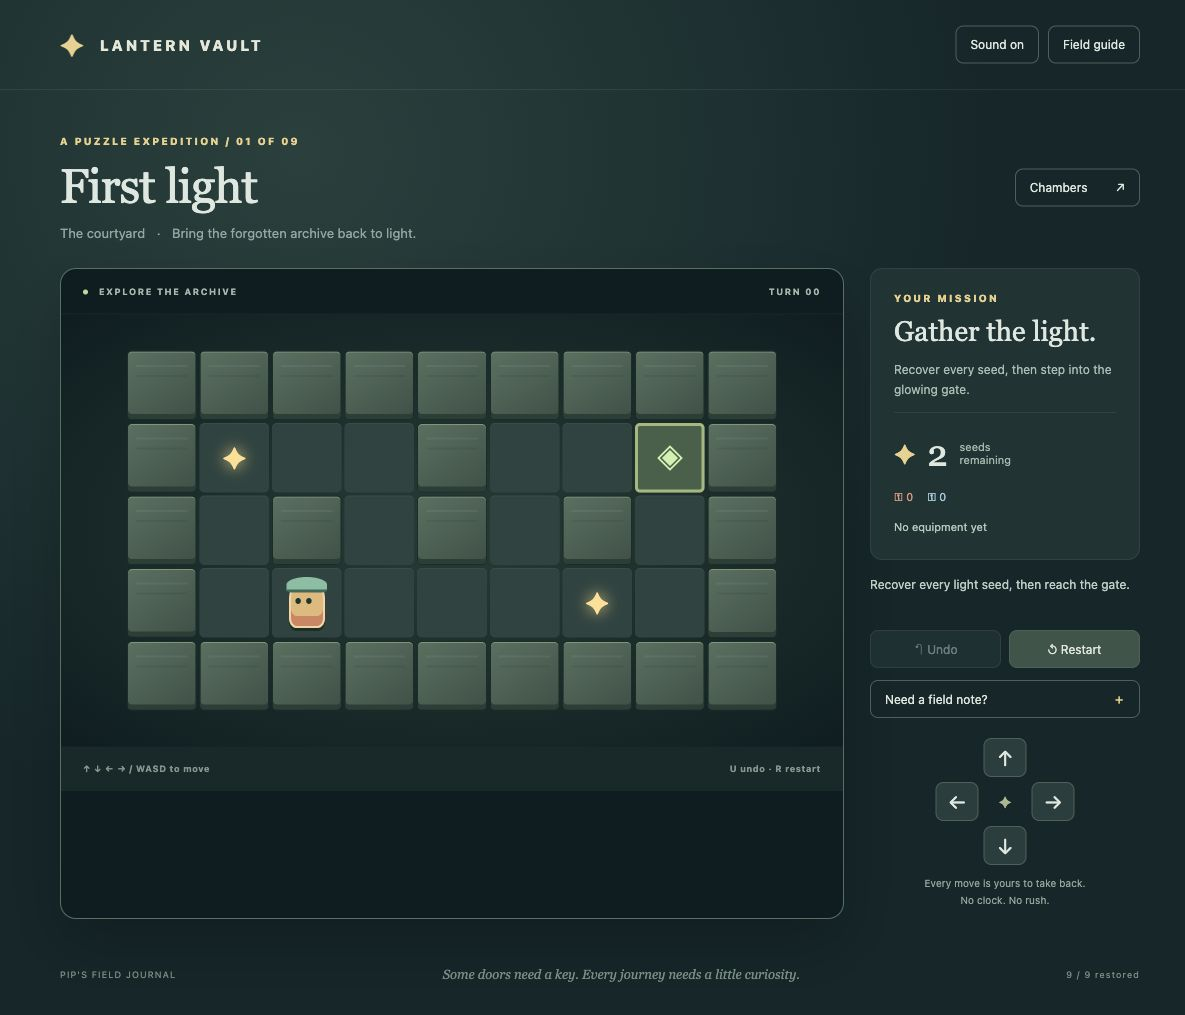
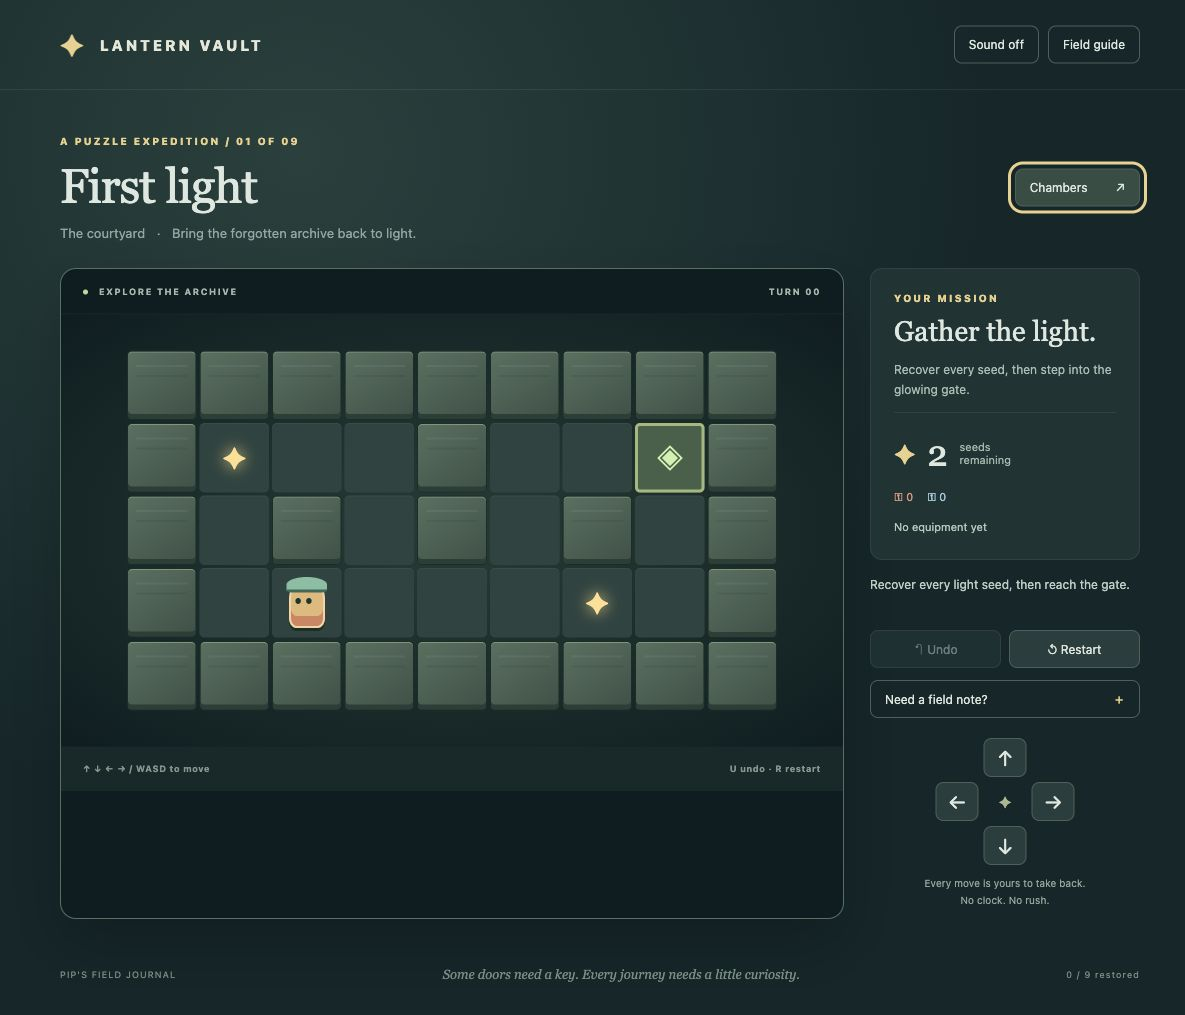
docs: record clean browser handoff and detached session server

Changed region(s): [[0.843, 0.1527, 0.9679, 0.2138], [0.8118, 0.0305, 0.8743, 0.0611]]

diff --git a/docs/VERIFICATION.md b/docs/VERIFICATION.md
@@ -8,7 +8,7 @@ Strict typecheck and production build pass. npm audit reports zero vulnerabiliti
 ## Mac Chrome visible play
 Played every stage using normal controls: stage 1 adjacent-tile click + arrow keys; stages 2–5 arrow keys; stage 6 visible D-pad buttons; stages 7–9 arrow keys. Each visibly reported “Chamber restored”; final stage showed “Expedition complete”. Original routes stored in src/solutions.json. Checked unprotected fire death in stage 4, U recovery, restart and successful protected crossing.
 
-Reload showed completed stage 1 score and stage 2 unlocked while stage 3 remained locked; final reload preserved all nine unlocks. Mute persisted on reload. While Chambers dialog open, Right left player/turn unchanged. Escape restored Chambers button focus. D-pad Enter retained “Move right” focus after moving. Native buttons also support Tab/Enter navigation.
+Reload showed completed stage 1 score and stage 2 unlocked while stage 3 remained locked; final reload preserved all nine unlocks. Mute persisted on reload. While Chambers dialog open, Right left player/turn unchanged. Escape restored Chambers button focus. D-pad Enter retained “Move right” focus after moving. Native buttons also support Tab/Enter navigation. A 600ms held Right produced one move; repeated keyboard events are ignored. Field guide opened and closed correctly. Reset expedition progress returned Pip to stage 1 with no undo history and stage 2 locked.
 
 390×844 viewport: visible D-pad activation moved Pip; document clientWidth and scrollWidth both 375 (scrollbar consumes 15px), no horizontal overflow. Full-page desktop/mobile screenshots saved and visually inspected. Viewport reset afterward. CSS honors prefers-reduced-motion, with no gameplay timer/animation dependency. App console had no errors; existing MetaMask extension produced unrelated stream/listener warnings.
 
@@ -16,3 +16,6 @@ Reload showed completed stage 1 score and stage 2 unlocked while stage 3 remaine
 Read local Grill with Docs, grilling, domain-modeling (including formats), Implement, TDD, code-review, plus official Grill with Docs/Implement GitHub pages. User delegation replaced design interview and seam-confirmation pauses. Public seams were documented before tests. Actual red→green evidence: initial seed/gate test failed for missing engine, then passed; unknown-tile test failed before validation and passed after fix. Remaining interaction/campaign tests were added around the implemented engine and are regression/specification checks, not a claim of complete slice-by-slice TDD. UI/CSS are browser verified, not test-first. Independent review agents were explicitly required by code-review skill.
 
 No automated cross-browser matrix or screen-reader session. Persistence stores campaign results/settings, not mid-stage snapshots. QA completion is cleared through the visible Reset expedition progress control before handoff. No sidebar registration API was available; folder clone is the deliverable. No public deployment, external art/audio, paid service, autostart or security changes.
+
+## Server evidence
+Initial shell nohup server did not survive tool cleanup. Terminal UI control was unavailable, so the final session-only server uses Python subprocess start_new_session with detached Node/Vite, supported through the shell execution tool. PID 74977; separate commands verified localhost-only listening and HTTP 200 after launch ended; Mac Chrome reloaded successfully. No startup item, daemon service or login configuration.

diff --git a/README.md b/README.md
@@ -11,7 +11,7 @@ npm ci
 npm run dev
 ```
 
-Open http://127.0.0.1:5183. Port 5183 is strict; occupied ports fail rather than taking a neighbor's port. The server binds only to this Mac. The delivered server runs in an ordinary Terminal window; it continues while that Terminal process and Mac session remain alive. Closing it, signing out or rebooting stops it. Restart with `npm run dev`; no boot/login startup or system configuration is installed.
+Open http://127.0.0.1:5183. Port 5183 is strict; occupied ports fail rather than taking a neighbor's port. The server binds only to this Mac. The delivered server runs as a detached Node process for this Mac session, launched through the supported shell tool. It survives completion of this task; stopping the process or rebooting ends it. Current PID is recorded in /tmp/lantern-vault-vite.pid and output in /tmp/lantern-vault-vite.log. A manually restarted `npm run dev` runs in your terminal until Ctrl+C. Restart with `npm run dev`; no boot/login startup or system configuration is installed.
 
 Arrow keys / WASD move. Click a neighboring tile or use the D-pad. U undoes an entire turn; R restarts. Field guide explains every tile. Chambers unlock in order; completion, best moves and mute save on this browser/device. In-progress boards do not survive reload. Chambers → Reset expedition progress clears local campaign progress. Reduced-motion system preferences are respected.
 
